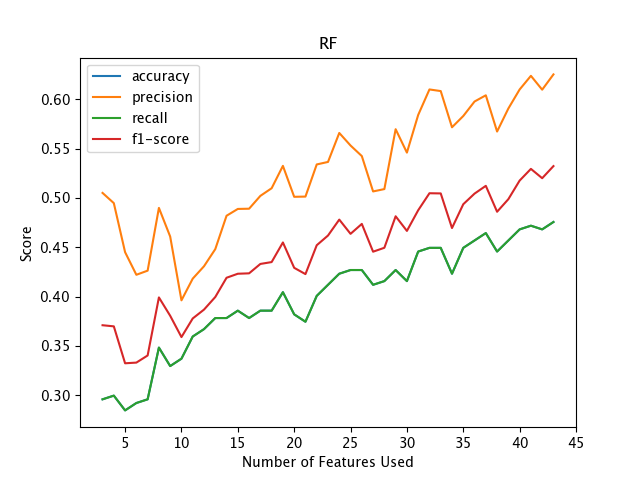
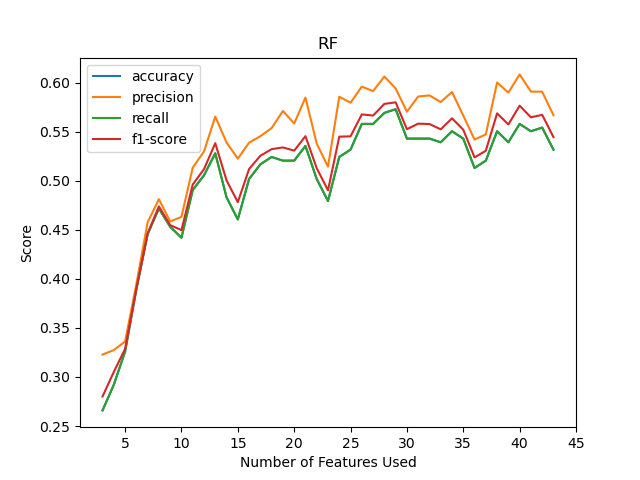
Code for KNN

diff --git a/knn.py b/knn.py
@@ -1,0 +1,192 @@
+from imblearn.over_sampling import SMOTE
+import numpy as np
+import matplotlib.pyplot as plt
+import pandas as pd 
+from sklearn.decomposition import PCA, KernelPCA
+from sklearn.discriminant_analysis import LinearDiscriminantAnalysis as LDA
+from sklearn.ensemble import RandomForestClassifier
+from sklearn.impute import SimpleImputer
+from sklearn.metrics import classification_report, accuracy_score, precision_score, recall_score, f1_score
+from sklearn.model_selection import train_test_split, GridSearchCV, cross_val_score
+from sklearn.neighbors import KNeighborsClassifier
+from sklearn.preprocessing import StandardScaler, Normalizer, MinMaxScaler, MaxAbsScaler
+from sklearn.utils import resample
+
+df = pd.read_csv('student-mat-edited.csv')
+
+df['school'] = df['school'].replace(['GP', 'MS'], [1, 0])
+df['sex'] = df['sex'].replace(['M', 'F'], [1, 0])
+df['address'] = df['address'].replace(['U', 'R'], [1, 0])
+df['famsize'] = df['famsize'].replace(['GT3', 'LE3'], [1, 0])
+df['Pstatus'] = df['Pstatus'].replace(['T', 'A'], [1, 0])
+df = df.replace(to_replace={'yes':1, 'no':0})
+
+df = pd.get_dummies(df, prefix= ['Mjob', 'Fjob', 'reason', 'guardian'])
+
+#code from: https://stackoverflow.com/questions/46168450/replace-a-specific-range-of-values-in-a-pandas-dataframe
+#convert the scores to integers representing the letter grade range specified in the paper. higher the number, the higher the grade
+df['scores'] = df[['G1', 'G2', 'G3']].mean(axis=1)
+df['scores'] = np.where(df['scores'].between(0, 10), 0, df['scores'])
+df['scores'] = np.where(df['scores'].between(10, 12), 1, df['scores'])
+df['scores'] = np.where(df['scores'].between(12, 14), 2, df['scores'])
+df['scores'] = np.where(df['scores'].between(14, 16), 3, df['scores'])
+df['scores'] = np.where(df['scores'].between(16, 21), 4, df['scores'])
+df['scores'] = df['scores'].astype(np.int)
+
+df = df.drop(index=1, columns=['G1', 'G2', 'G3'])
+
+X = df[[i for i in list(df.columns) if i != "scores"]]
+y = df['scores']
+
+#https://machinelearningmastery.com/multi-class-imbalanced-classification/
+#Get rid of class imbalance in the target feature by oversampling
+oversample = SMOTE()
+X, y = oversample.fit_resample(X, y)
+
+#list of features in order of importance determined by SBS feature selection
+
+sbs_features = ['sex', 'age', 'address', 'famsize', 'Pstatus', 'Medu', 'Fedu',
+       'traveltime', 'studytime', 'failures', 'schoolsup', 'paid',
+       'activities', 'nursery', 'higher', 'internet', 'romantic', 'famrel',
+       'goout', 'Dalc', 'Walc', 'health', 'absences', 'Mjob_at_home',
+       'Mjob_health', 'Mjob_services', 'Mjob_teacher', 'Fjob_at_home',
+       'Fjob_health', 'Fjob_other', 'Fjob_services', 'reason_home',
+       'guardian_father']
+
+#list of features in order of importance determined by RF feature selection
+rf_features = ['school', 'sex', 'age', 'address', 'famsize', 'Pstatus', 'Medu', 'Fedu',
+       'traveltime', 'studytime', 'failures', 'schoolsup', 'famsup', 'paid',
+       'activities', 'nursery', 'higher', 'internet', 'romantic', 'famrel',
+       'freetime', 'goout', 'Dalc', 'Walc', 'health', 'absences',
+       'Mjob_at_home', 'Mjob_health', 'Mjob_other', 'Mjob_services',
+       'Mjob_teacher', 'Fjob_at_home', 'Fjob_health', 'Fjob_other',
+       'Fjob_services', 'Fjob_teacher', 'reason_course', 'reason_home',
+       'reason_other', 'reason_reputation', 'guardian_father',
+       'guardian_mother', 'guardian_other']         
+
+#split into testing and training set
+X_train, X_test, y_train, y_test = train_test_split(X, y,
+                                                    test_size=0.3,
+                                                    random_state=0,
+                                                    stratify=y)
+#standardizing the dataset                     
+stdsc = StandardScaler()
+X_train_std = stdsc.fit_transform(X_train)
+X_test_std = stdsc.transform(X_test)
+
+
+
+## Feature Extraction ##
+#PCA
+scikit_pca = PCA(n_components=2)
+X_train_pca = scikit_pca.fit_transform(X_train_std)
+X_test_pca = scikit_pca.fit_transform(X_test_std)
+
+#KPCA
+scikit_kpca = KernelPCA(n_components=2, kernel='rbf', gamma=15)
+X_train_kpca = scikit_kpca.fit_transform(X_train_std)
+X_test_kpca = scikit_kpca.fit_transform(X_test_std)
+
+#LDA
+#normalize the dataset before performing LDA   
+norm = Normalizer()
+X_train_norm = norm.fit_transform(X_train)
+X_test_norm = norm.transform(X_test)
+
+lda = LDA(n_components=3)
+X_train_lda = lda.fit_transform(X_train_norm, y_train)
+X_test_lda = lda.transform(X_test_norm)
+
+
+## GRID SEARCH ##
+n_range = [1,2,3,4,5,6,7,8,9,10,11,12,13,14,15,16,17,18,19,20]
+leaves = [10, 15, 20, 25, 30, 35, 40, 45, 50]
+metrics = ['euclidean','manhattan','chebyshev','minkowski']
+algortihms = ['ball_tree','kd_tree']
+dif_weights = ['uniform','distance']
+
+param_grid = [{'n_neighbors':n_range, 'weights':dif_weights,
+               'algorithm':algortihms, 'leaf_size':leaves, 'metric':metrics}]
+"""{'n_neighbors':n_range, 'weights':dif_weights,
+               'algorithms':['brute'], 'metric':metrics}
+               """
+gs = GridSearchCV(estimator=KNeighborsClassifier(), 
+                  param_grid=param_grid,
+                  scoring='accuracy',
+                  refit=True,
+                  cv=10,
+                  n_jobs=-1)
+
+#grid search for each feature extraction method
+for X_train_gs, name in zip([X_train_std, X_train_lda, X_train_pca, X_train_kpca], ["No Feature Extraction", "LDA", "PCA", "KPCA"]):
+    print("\n\nGrid search for", name)
+    gs = gs.fit(X_train_gs, y_train)
+    print("Accuracy:", gs.best_score_)
+    print("Parameters:", gs.best_params_)
+
+
+gs = GridSearchCV(estimator=KNeighborsClassifier(),
+                  param_grid=param_grid,
+                  scoring='accuracy', cv=2)
+
+scores = cross_val_score(gs, X_train, y_train,
+                         scoring='accuracy', cv=5)
+
+print("\n\nCV Accuracy: %.3f +/- %.3f" % (np.mean(scores), np.std(scores)))
+
+# Hyper parameters determined from previous grid search
+lr = KNeighborsClassifier(algorithm='ball_tree',leaf_size=10,metric='manhattan',
+                          n_neighbors=17, weights='distance')
+
+#Calculate accuracy, precision, recall, and f1-score using each RF and SBS feature selection
+num_features = list(range(3, 44))
+for name, features in zip(["RF", "SBS"], [rf_features, sbs_features]):
+    print("\n\n" + name + " Feature Selection")
+    accuracy_list = []
+    precision_list = []
+    recall_list = []
+    f1_list = []
+
+    for num in num_features:
+        #Code from https://stackoverflow.com/questions/40636514/selecting-pandas-dataframe-column-by-list
+        X_train_new = X_train[X_train.columns.intersection(features[:num])]
+        X_test_new = X_test[X_test.columns.intersection(features[:num])]
+       
+        X_train_norm = norm.fit_transform(X_train_new)
+        X_test_norm = norm.transform(X_test_new)
+
+        X_train_lda = lda.fit_transform(X_train_norm, y_train)
+        X_test_lda = lda.transform(X_test_norm)
+
+        print("\n\nNumber of features:", num)
+
+        lr.fit(X_train_lda, y_train)
+        y_pred = lr.predict(X_test_lda)
+
+        accuracy = accuracy_score(y_pred, y_test)
+        precision = precision_score(y_pred, y_test, average='weighted')
+        recall = recall_score(y_pred, y_test, average='weighted')
+        f1 = f1_score(y_pred, y_test, average='weighted')
+
+        print("Accuracy:", accuracy)
+        print("Precision:", precision)
+        print("Recall:", recall)
+        print("F1-Score:", f1)
+
+        accuracy_list.append(accuracy)
+        precision_list.append(precision)
+        recall_list.append(recall)
+        f1_list.append(f1)
+
+    #plot metrics for each feature selection method
+    plt.plot(num_features, accuracy_list, label='accuracy')
+    plt.plot(num_features, precision_list, label='precision')
+    plt.plot(num_features, recall_list, label='recall')
+    plt.plot(num_features, f1_list, label='f1-score')
+
+    plt.title(name)
+    plt.xlabel('Number of Features Used')
+    plt.ylabel('Score')
+    plt.legend()
+    plt.savefig(name+"_fs_metrics_knn.png")
+    plt.show()
